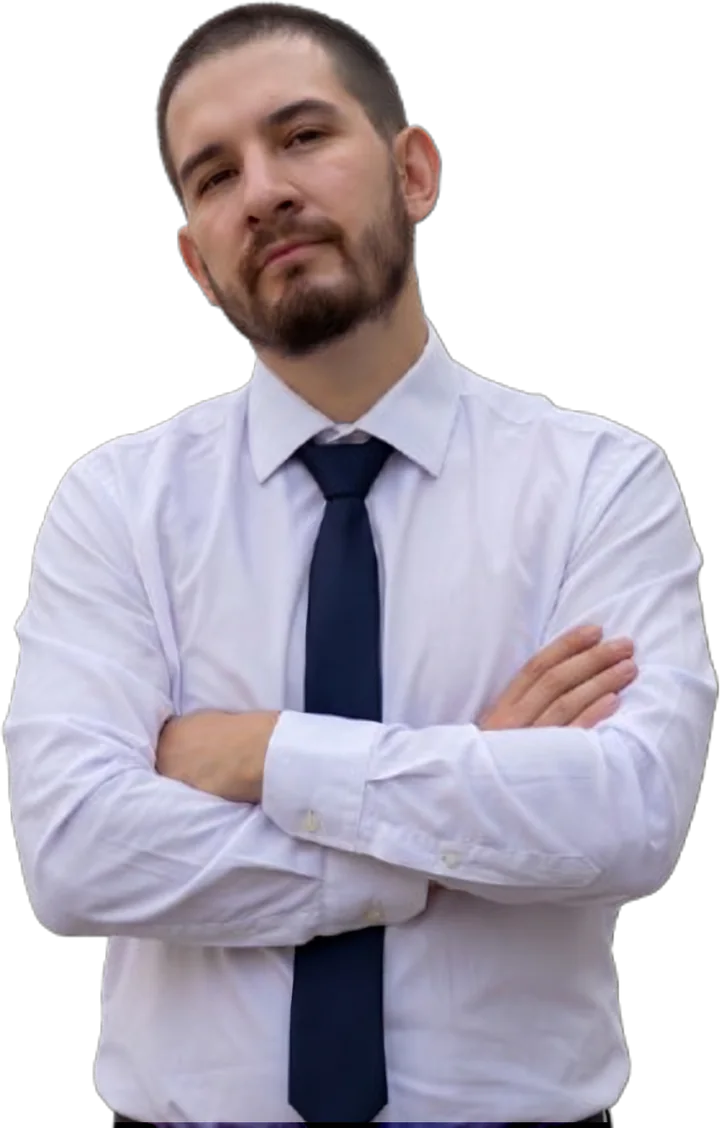
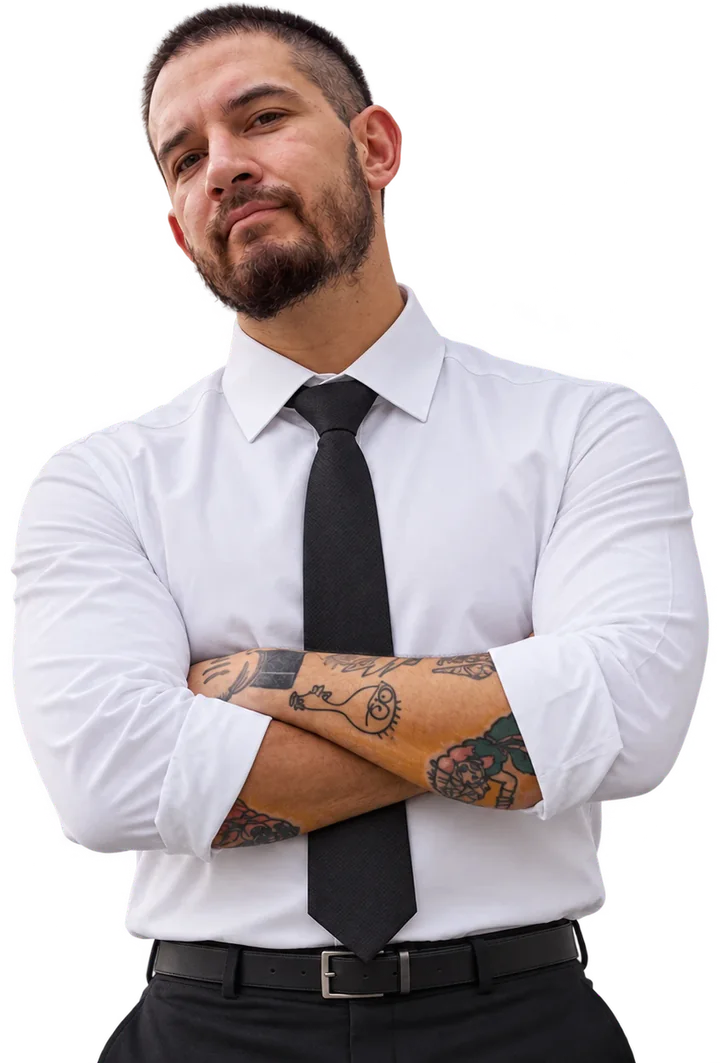
Retrato nuevo del hero: foto en alta resolución y sin fondo
- tools/fuentes/yo-hd.webp (1227×1282) pasa a ser la fuente del retrato; npm run retrato
  la recorta sola y salen alejo-360/720/847.webp
- Marco del hero ajustado a la proporción nueva e imagen para compartir regenerada

diff --git a/index.html b/index.html
@@ -129,7 +129,7 @@
 
       <div class="hero-aside">
         <div class="hero-portrait">
-          <img src="assets/media/alejo-720.webp" srcset="assets/media/alejo-360.webp 360w, assets/media/alejo-720.webp 720w, assets/media/alejo-1080.webp 1080w" sizes="(min-width: 700px) 330px, 42vw" width="1080" height="1692" fetchpriority="high" decoding="async" alt="Alejo Morales con camisa blanca de manga larga y corbata, de brazos cruzados.">
+          <img src="assets/media/alejo-720.webp" srcset="assets/media/alejo-360.webp 360w, assets/media/alejo-720.webp 720w, assets/media/alejo-847.webp 847w" sizes="(min-width: 700px) 330px, 42vw" width="847" height="1251" fetchpriority="high" decoding="async" alt="Alejo Morales con camisa blanca arremangada y corbata negra, de brazos cruzados.">
         </div>
         <ul class="hero-social" aria-label="Perfiles">
           <li><a class="app-icon app-icon--sm" href="https://www.linkedin.com/in/alejo-morales-7592b9388/" data-tip="LinkedIn" target="_blank" rel="noopener"><svg class="glyph" aria-hidden="true"><use href="#i-linkedin"/></svg><span class="visually-hidden">LinkedIn (se abre en otra pestaña)</span></a></li>

diff --git a/css/estilos.css b/css/estilos.css
@@ -384,7 +384,7 @@ html:not(.js) .nav-toggle{ display:none; }
 
 /* Retrato recortado sobre un panel que arranca más abajo: la cabeza sobresale del marco */
 .hero-aside{ display:grid; grid-template-columns:minmax(0, clamp(150px, 42vw, 240px)) auto; align-items:end; gap:var(--sp-4); min-width:0; }
-.hero-portrait{ position:relative; isolation:isolate; width:min(100%, 330px); aspect-ratio:1124 / 1761; }
+.hero-portrait{ position:relative; isolation:isolate; width:min(100%, 330px); aspect-ratio:847 / 1251; }
 .hero-portrait::before{
   content:""; position:absolute; inset:16% 0 0; z-index:-1; border-radius:var(--r-lg);
   background:

diff --git a/docs/rediseno-design-md.md b/docs/rediseno-design-md.md
@@ -158,3 +158,5 @@ No verificado: lectores de pantalla reales, Safari/Firefox y dispositivos físic
 **VITRACK (29/10):** el botón de la tarjeta y del caso pasa a «Probar la demo» y lleva a https://vitrack-demo.vercel.app/ (datos de ejemplo, sin contraseña, se reinicia cada noche). La app del piloto sigue aparte, con ingreso por invitación.
 
 **Retrato con Topaz (29/10):** `yomanga-para-escalar.png` se escaló x4 con Topaz Image Upscale en ElevenLabs (modelo High Fidelity V3, sin retoque de cara, 485 créditos aprobados por Alejo) → `tools/fuentes/yomanga-topaz.png`, 1216×1808. `npm run retrato -- fuentes/yomanga-topaz.png` le devuelve la silueta y `npm run images -- alejo` saca 360, 720 y 1080 px. Comparada con el original, la cara queda igual, solo más nítida.
+
+**Retrato nuevo (13/11):** Alejo pasó una foto mejor (`tools/fuentes/yo-hd.webp`, 1227×1282 px, ya sin fondo, camisa arremangada y corbata negra). `npm run retrato` ahora la toma por defecto: recorta el borde transparente y no hace falta escalarla. Salen `alejo-360/720/847.webp`; el marco del hero pasó a 847/1251. Los archivos de `yomanga` quedan en `tools/fuentes` por si se quiere volver.

diff --git a/AGENTS.md b/AGENTS.md
@@ -49,7 +49,7 @@ El portfolio anterior quedó guardado en la rama `portfolio-anterior` y la etiqu
   Tripo). Mixamo y Tripo se probaron y quedaron descartados (ver `docs/rediseno-design-md.md`, punto 8).
 - `tools/` — tooling local (no se despliega, ver `.vercelignore`): `tools/blender/` (rig de
   Taku), `tools/fuentes/` (imágenes y modelos originales que usan los scripts; el retrato del hero
-  sale de `yomanga.png`). NO usar la imagen de Mercury. `docs/` — decisiones y revisión editorial
+  sale de `yo-hd.webp`, la foto que pasó Alejo el 13/11). NO usar la imagen de Mercury. `docs/` — decisiones y revisión editorial
   (`docs/rediseno-design-md.md` describe el rediseño vigente).
 
 ## Convenciones a respetar
